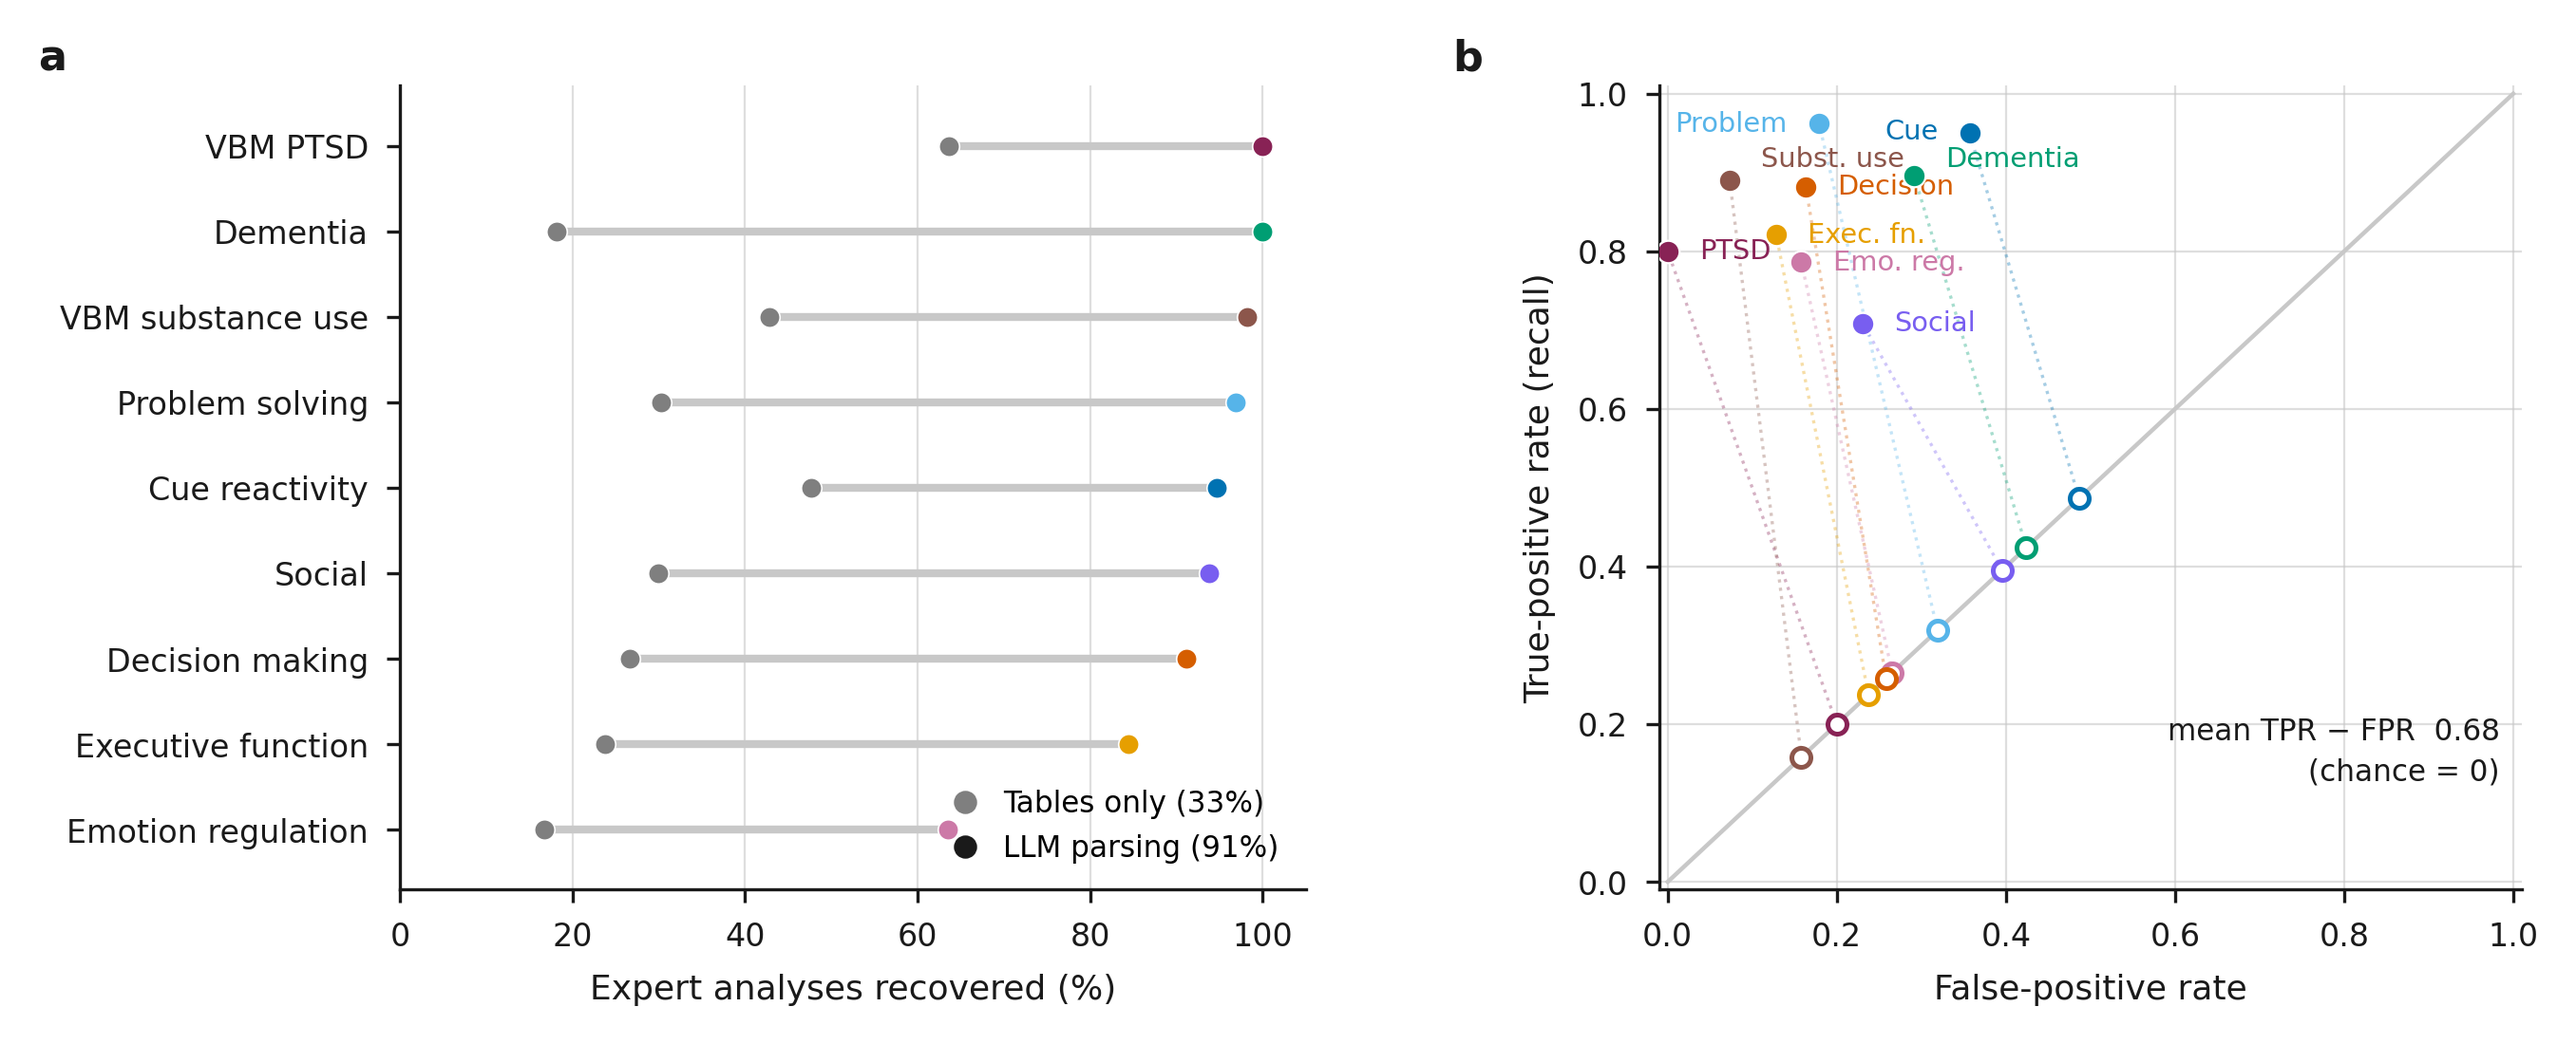
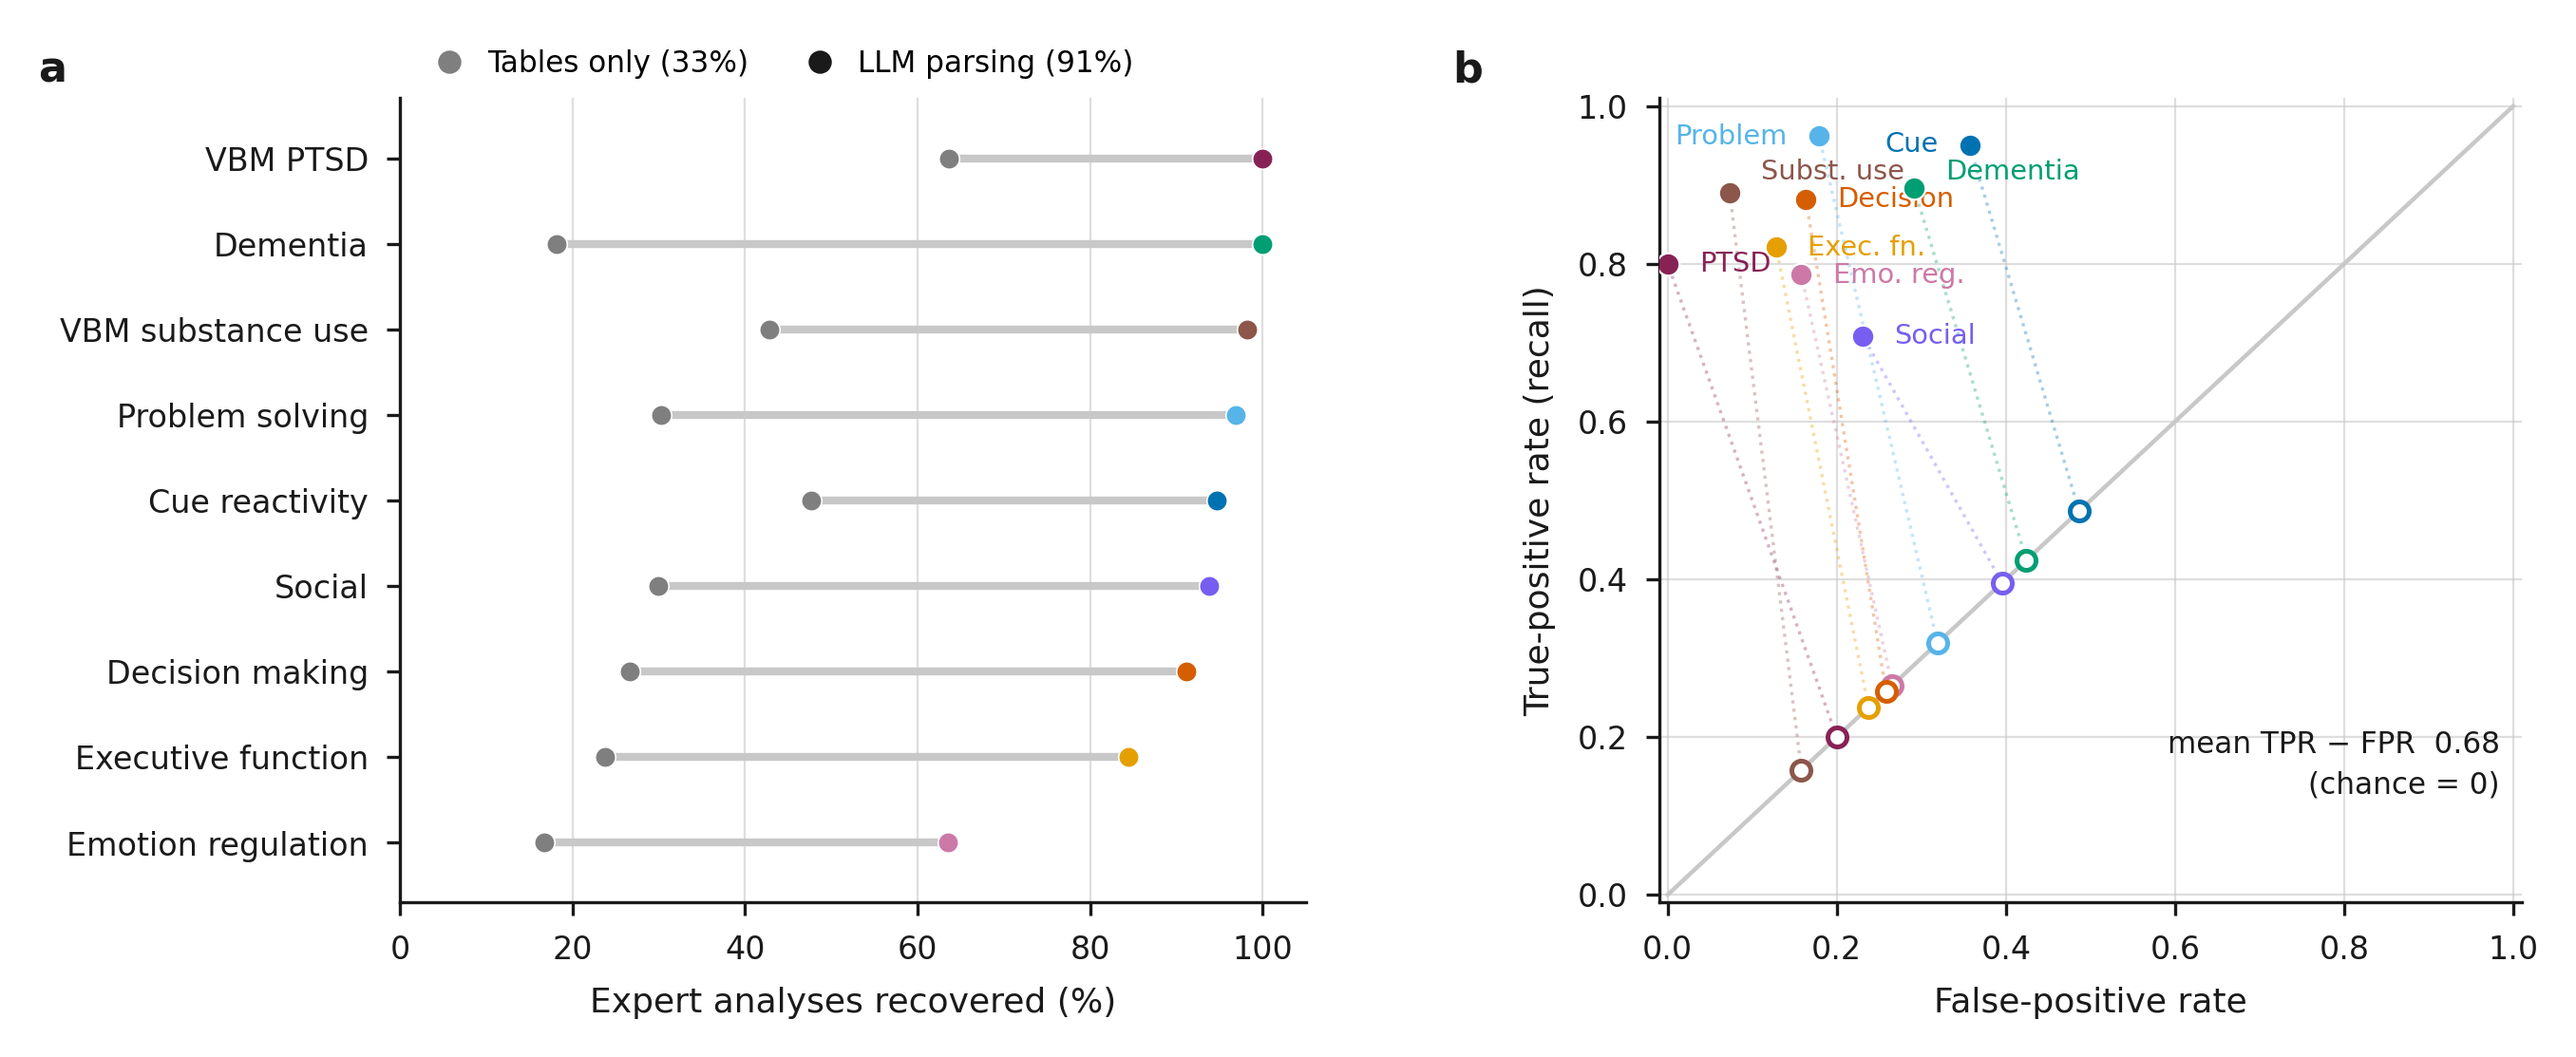
Figure 3a: move the legend above the panel
At lower right it sat on the Executive function and Emotion regulation rows.
There is no in-panel corner that works -- every project's dumbbell spans most
of the x range, so any interior placement covers data -- so the legend moves
outside the axes, above the panel, clear of the "a" label.

Two columns at publication scale. Stacked at deck scale, where 1.55x type makes
the pair wider than panel a and it ran into panel b's label.

diff --git a/scripts/make_nature_methods_figures.py b/scripts/make_nature_methods_figures.py
@@ -707,7 +707,14 @@ def figure3(out_dir: Path) -> None:
                               label=f"Tables only ({pooled_tab:.0f}%)"),
                        Line2D([], [], marker="o", ls="", color=INK, markersize=3.4,
                               label=f"LLM parsing ({pooled_llm:.0f}%)")],
-              loc="lower right", handletextpad=0.3, fontsize=fs(5.6))
+              # Above the axes, not inside them: every row's dumbbell spans most of the x
+              # range, so there is no in-panel corner that does not sit on data. At lower right
+              # it covered the Executive function and Emotion regulation rows.
+              # Two columns at publication scale; stacked at deck scale, where 1.55x type makes
+              # the pair wider than panel a and it ran into panel b's label.
+              loc="lower left", bbox_to_anchor=(0.0, 1.0),
+              ncol=2 if FONT_SCALE <= 1.2 else 1, frameon=False,
+              handletextpad=0.3, columnspacing=1.4, borderaxespad=0.25, fontsize=fs(5.6))
     panel_label(ax, "a", dx=-0.40)
 
     # b: annotation in ROC space, each project against its own size-matched null
